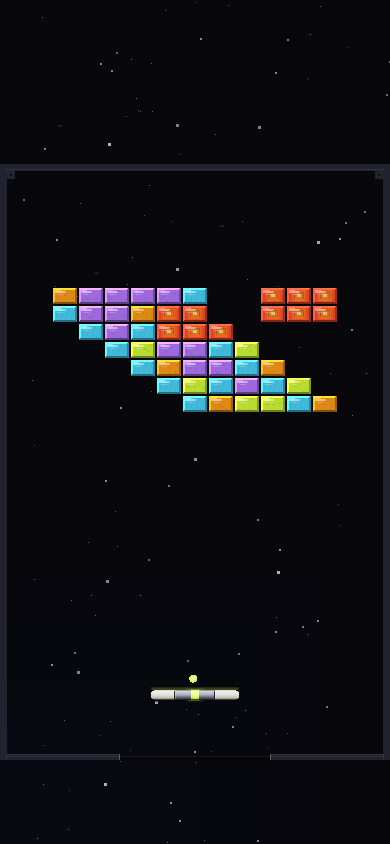
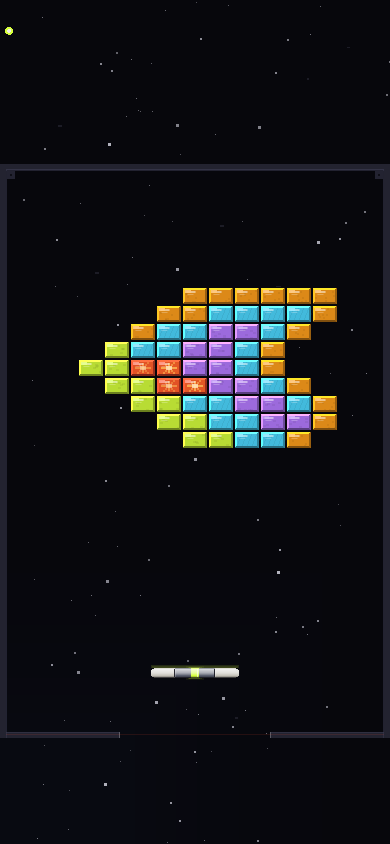
the blast brick lights up, the magnet aims, and four walls become pictures
Five things from a phone.

The blast brick had a dark core that only woke when the ball came near.
A brick that takes its neighbours with it has to be pickable out of a
full wall before you aim, or the information arrived too late. It is
orange now, with a cross and four diagonal sparks out of the middle, and
it breathes. The core still goes white hot as the ball closes.

The green lamps are turned down. Section 2 had the nearest stars answer
every brick destroyed; with a chain running that is a field of lamps
blinking behind the thing the player is trying to watch. The sky answers
the frame now, where it is one event at a time.

The magnet shot the wrong way, and it was not the deflection: launch()
picked a random side and ignored where the ball was sitting on the
shield entirely. With the Magnet on the shield is an aim, and an aim that
disregards where you put the ball is not one. A held ball now leaves
exactly as it would have if it had bounced there — same model, same carry
from the shield's own movement.

Four layouts are drawn as pictures rather than patterns: The
Constellation is the Plough, Off Axis is a lightning bolt, The Labyrinth
is a spiral with stone plugs, and The Pane is a window with four panes
and a mullion of blast bricks down the middle. All four keep the mosaic
rule, and every level in the zone still has a chain worth at least a
fifth of it.

And the shield is higher again: the field ends at 738. On the deepest
[…]

diff --git a/CLAUDE.md b/CLAUDE.md
@@ -326,14 +326,15 @@ virker står under dem.
 
 ```
 .............
-.IIPPPPPPPII.
-.F?PPPPPPP?F.
-.FFFPPPPPFFF.
-.VVV?P?P?VVV.
-.IIEEEEEEEII.
-.FFFFPPPPFFF.
-.F?FFPPPFF?F.
-.VVVVPPPVVVV.
+.FF..........
+..IFF........
+...VIFF......
+.....VIFF....
+..VVVVVIFFVV.
+..V?VEEEEV?V.
+..VI?PPPP?IV.
+..VVVVVVVVVV.
+...I?VFFV?I..
 ```
 
 ### Level 5: The Hold
@@ -364,26 +365,30 @@ virker står under dem.
 
 ```
 .............
-.FPPPPI..EEE.
-.IPPFEE..EEE.
-..IPIEEE.....
-...IVPPIV....
-....IFPPIF...
-.....IVIPIV..
-......IFVVIF.
+......FFFFFF.
+.....FFIIIIF.
+....FIIPPIF..
+...VIIPPIF...
+..VVEEPPIF...
+...VVEEPPIF..
+....VVIIPPIF.
+.....VVIIPPF.
+......VVIIF..
 ```
 
 ### Level 8: The Labyrinth
 
 ```
 .............
-.IIIPPPPPPII.
-.S...SE..S.S.
-.FFEEEEEEEFF.
-.S.S..ES...S.
-.IIEEEEEEEII.
-...S.....S...
-..FFFPPPFFF..
+.FFFFFFFFFFF.
+.F.........S.
+.F.IIIIIII.F.
+.F.I.....I.F.
+.F.I.PPS.I.F.
+.F.IEEEEEI.F.
+.F.IIIIIII.F.
+.F.........F.
+.FFFFFFFFVVF.
 ```
 
 ### Level 9: The Fuse
@@ -403,12 +408,15 @@ virker står under dem.
 ### Level 10: The Pane
 
 ```
-.GGGGGGGGGGG.
-.GGGGGGGGGGG.
-.FFFPPPPPFFF.
-.FFEEEEEEEFF.
-.VVVVPPPVVVV.
-..IIIPPPIII..
+.GGGGGEGGGGG.
+.GVVIGEGIVVG.
+.GVIPGEGPIVG.
+.GGGGGEGGGGG.
+......E......
+.GGGGGEGGGGG.
+.GVIPGEGPIVG.
+.GVVIGEGIVVG.
+.GGGGGEGGGGG.
 ```
 
 ### Level 11: Blackout
@@ -1417,3 +1425,37 @@ Feel_test har fået tilstand 4: hver klodstype tegnet to gange, flad til
 venstre og affaset til højre, samme farver og samme afstand. Det er den
 eneste ærlige måde at vælge mellem to udgaver af den samme flade på — på
 en telefon, ikke på en skærm.
+
+---
+
+## Efter endnu en tur på telefonen
+
+**Sprængklodsen lyser.** Den havde en mørk kerne, der først vågnede, når
+bolden var tæt på. Men en klods, der tager naboerne med sig, skal kunne
+plukkes ud af en fuld mur, *før* man sigter — ellers er informationen
+kommet for sent. Den er orange nu, med et kors og fire diagonale gnister
+ud fra midten, og den ånder. Kernen bliver hvidglødende, når bolden
+nærmer sig, som den altid har gjort.
+
+**De grønne lamper er skruet ned.** Afsnit 2 lod de nærmeste stjerner
+svare på hver eneste klods. Med en kæde i gang er det et felt af lamper,
+der blinker bag det, spilleren prøver at se på. Himlen svarer nu kun
+rammen, hvor det er én hændelse ad gangen.
+
+**Magneten skød den forkerte vej.** Det var ikke afbøjningen: `launch()`
+valgte en tilfældig side og ignorerede fuldstændig, hvor bolden lå på
+skjoldet. Med magnet er skjoldet et sigte, og et sigte, der ser bort fra,
+hvor man har lagt bolden, er ikke et. En holdt bold forlader nu skjoldet
+præcis som den ville have gjort, hvis den var hoppet der — samme model,
+samme bæring fra paddlens egen bevægelse.
+
+**Fire opstillinger er tegnet om til billeder.** The Constellation er
+Karlsvognen, Off Axis er et lyn, The Labyrinth er en spiral med
+sten-propper, og The Pane er et vindue med fire ruder og en sprosse af
+sprængklodser ned gennem midten. De fire var mønstre; de er former nu.
+
+**Platformen op igen, og hvad det kostede.** Feltets bund er 738. På den
+dybeste mur, level 12's tolv rækker, kan himlen og faldzonen ikke begge
+betales. Faldzonen vinder: den er løftet fra afsnit 20 — omkring et
+sekund at reagere i — og himlen giver sine sidste to pixels. Det står i
+`origin_for` som en tredje klemme ved siden af de to, der var der.
